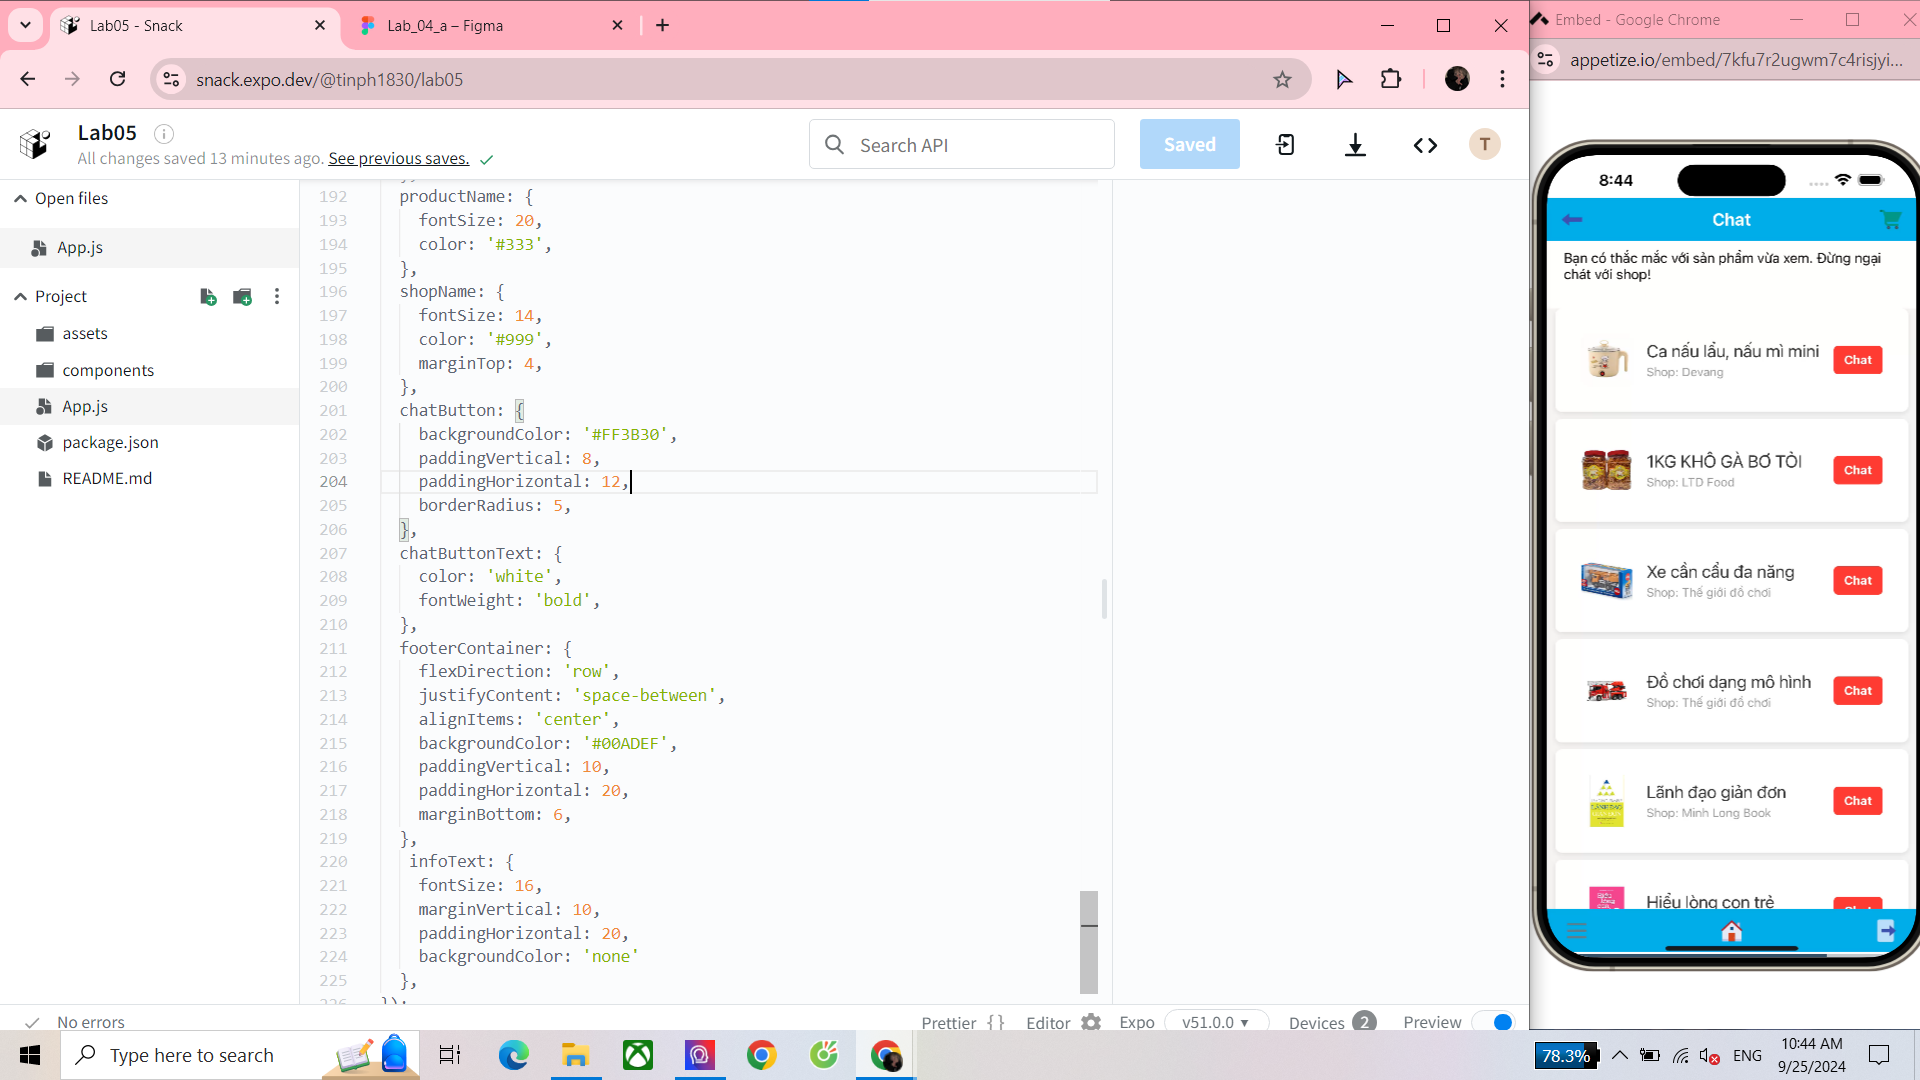
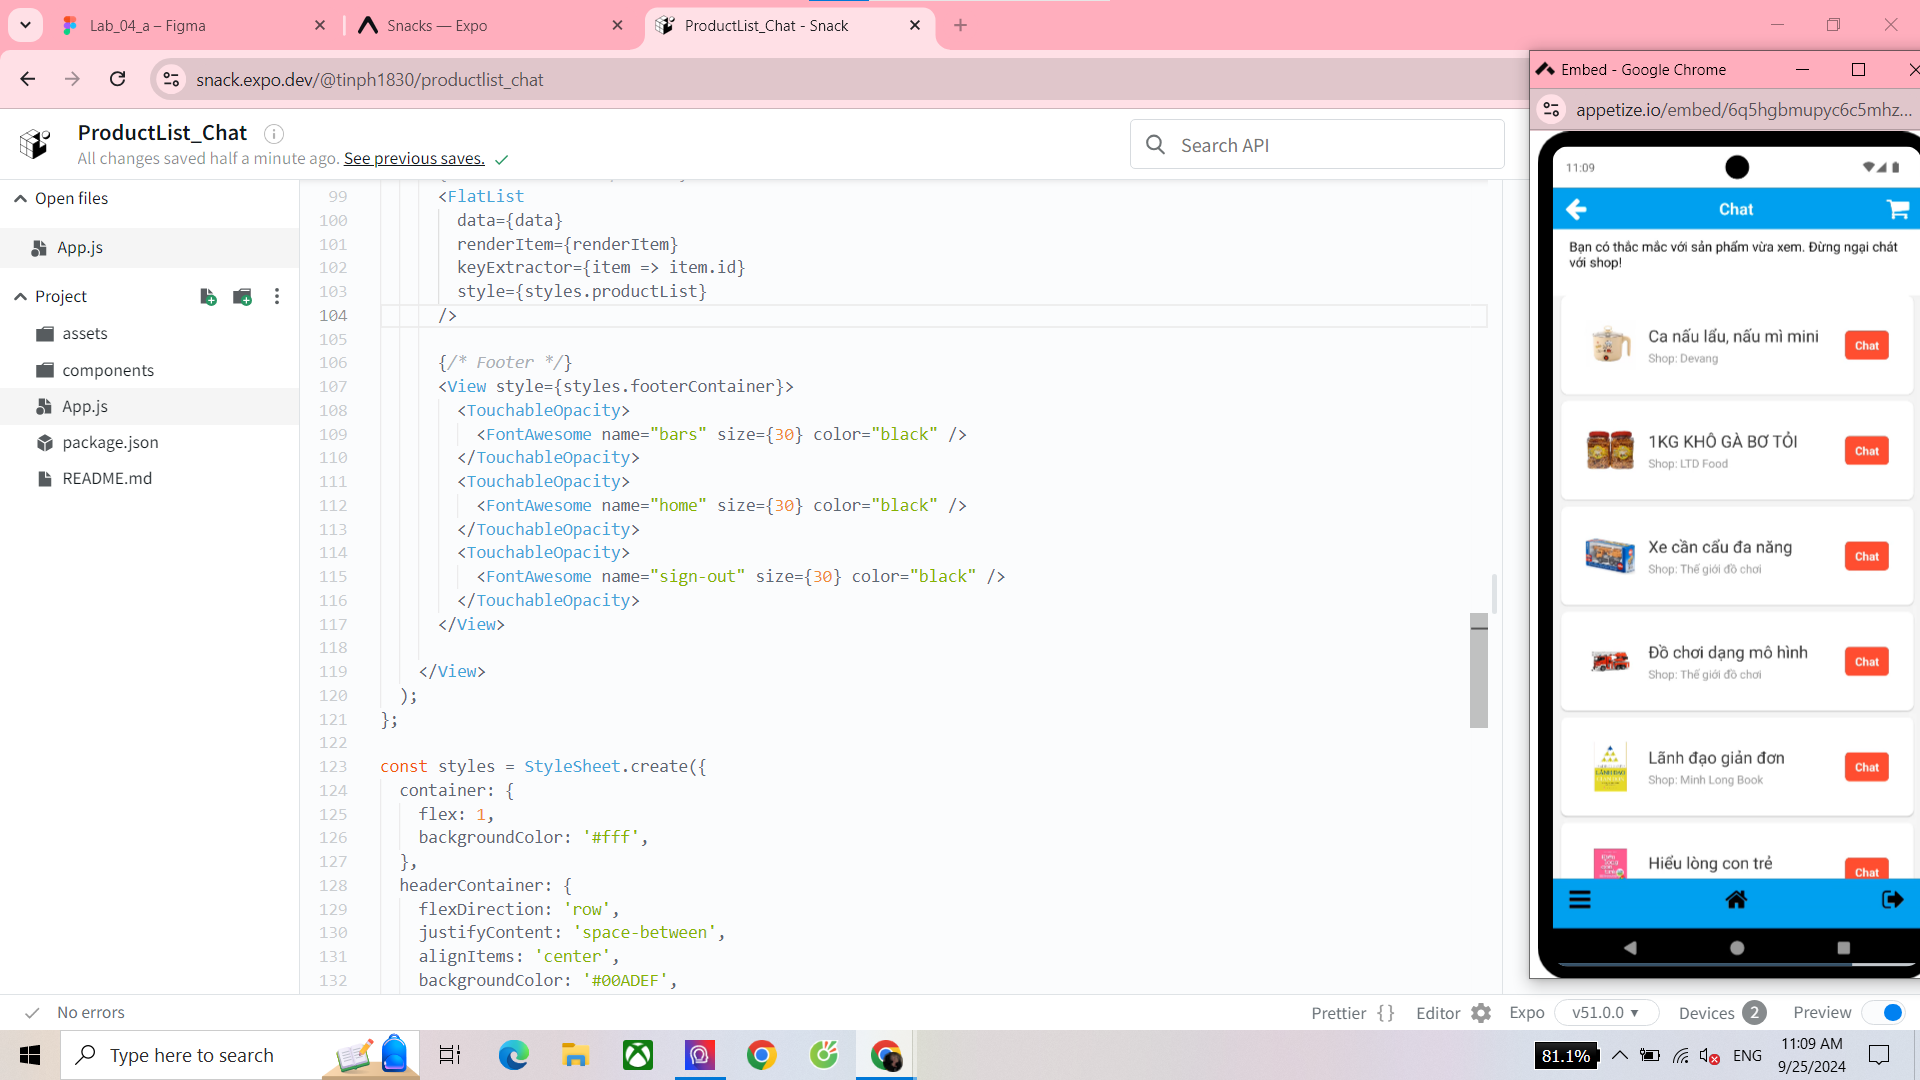
Tuan05 ReactNative Update ProductList_Chat

diff --git a/Lab05/productlist_chat/App.js b/Lab05/productlist_chat/App.js
@@ -1,6 +1,6 @@
 import React from 'react';
 import { View, Text, TouchableOpacity, StyleSheet, Image, FlatList } from 'react-native';
-
+import FontAwesome from 'react-native-vector-icons/FontAwesome';
 const data = [
   {
     id: '1',
@@ -82,19 +82,13 @@ const App = () => {
   return (
     <View style={styles.container}>
       {/* Header */}
-      <View style={styles.headerContainer}>
+       <View style={styles.headerContainer}>
         <TouchableOpacity>
-          <Image 
-            source={{ uri: 'https://img.icons8.com/color/48/000000/left.png' }} 
-            style={styles.icon}
-          />
+          <FontAwesome name="arrow-left" size={30} color="white" />
         </TouchableOpacity>
         <Text style={styles.headerTitle}>Chat</Text>
         <TouchableOpacity>
-          <Image 
-            source={{ uri: 'https://img.icons8.com/color/48/000000/shopping-cart.png' }} 
-            style={styles.icon}
-          />
+          <FontAwesome name="shopping-cart" size={30} color="white" />
         </TouchableOpacity>
       </View>
     <Text style={styles.infoText}>
@@ -112,24 +106,16 @@ const App = () => {
       {/* Footer */}
       <View style={styles.footerContainer}>
         <TouchableOpacity>
-          <Image 
-            source={{ uri: 'https://img.icons8.com/color/48/000000/menu.png' }} 
-            style={styles.icon}
-          />
+          <FontAwesome name="bars" size={30} color="black" />
         </TouchableOpacity>
         <TouchableOpacity>
-          <Image 
-            source={{ uri: 'https://img.icons8.com/color/48/000000/home.png' }} 
-            style={styles.icon}
-          />
+          <FontAwesome name="home" size={30} color="black" />
         </TouchableOpacity>
         <TouchableOpacity>
-          <Image 
-            source={{ uri: 'https://img.icons8.com/color/48/000000/exit.png' }} 
-            style={styles.icon}
-          />
+          <FontAwesome name="sign-out" size={30} color="black" />
         </TouchableOpacity>
       </View>
+    
     </View>
   );
 };
@@ -152,10 +138,6 @@ const styles = StyleSheet.create({
     color: 'white',
     fontSize: 20,
     fontWeight: 'bold',
-  },
-  icon: {
-    width: 30,
-    height: 30,
   },
   productList: {
     flex: 1,
@@ -215,7 +197,6 @@ const styles = StyleSheet.create({
     backgroundColor: '#00ADEF',
     paddingVertical: 10,
     paddingHorizontal: 20,
-    marginBottom: 3, 
     paddingBottom: 20
   },
    infoText: {
